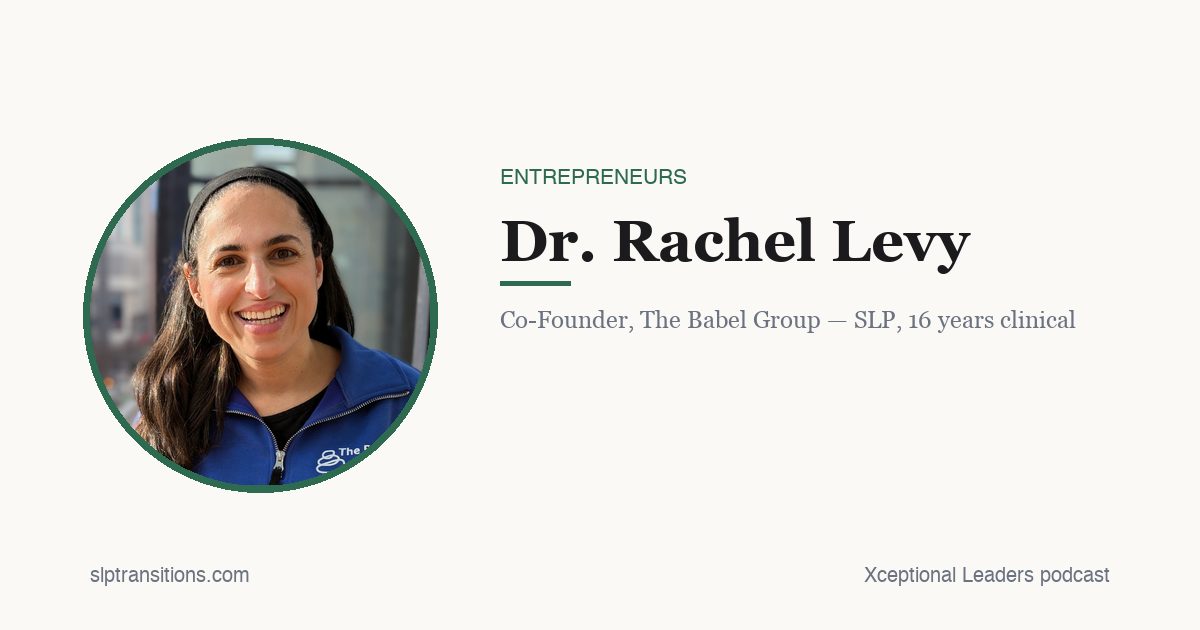
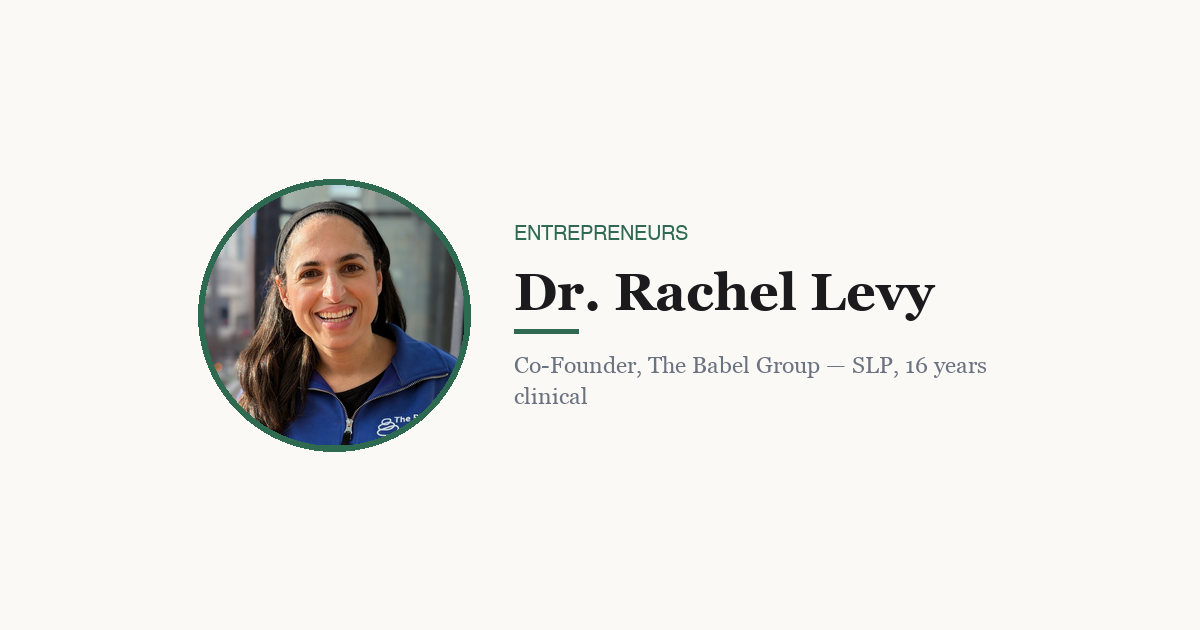
Fix guest header crop clipping, drop baked-in URLs, add 3 more headshots
The single-post hero applies object-fit:cover into a ~1.5:1 box (measured
live: 664x442 from a 1200x630 source) -- crops ~10.6% off each side but no
vertical crop. The original layout anchored the photo near the left edge and
let text run close to the right edge, so both got clipped on the article
page even though the grid/card thumbnail looked fine.

Centered photo+text as one group inside a 66%-width safe zone (with margin
beyond the measured crop) so it survives the theme's crop. Also dropped the
baked-in "slptransitions.com" / "Xceptional Leaders podcast" footer text per
James's note -- it's redundant on a page that's already on that domain.

Added headshots for Maya Chupkov (from her own org's site), Chris Wenger,
and Conner Reinhardt (corrected from "Reinardt" -- his actual surname per
his LinkedIn and the show's own guest page) via the same public guest-page
source as the other 9.

Re-uploaded the 3 live posts' featured images with the fixed layout and
verified in-browser that nothing clips.

diff --git a/scripts/make_guest_header.py b/scripts/make_guest_header.py
@@ -19,12 +19,22 @@ G = "/System/Library/Fonts/Supplemental/Georgia.ttf"
 HELV = "/System/Library/Fonts/Helvetica.ttc"
 HELV_B = "/System/Library/Fonts/Helvetica.ttc"
 
-PHOTO_D = 340
-RING = 7
-PHOTO_CX = 90 + PHOTO_D // 2
-PHOTO_CY = H // 2
+# Kadence crops the single-post hero with object-fit:cover into a ~1.5:1 box
+# (measured live: 664x442 rendered from a 1200x630 source), which keeps full
+# height but crops ~10.6% off each side (visible width ~78.7%). Use a tighter
+# safe zone than that measured value so the crop has margin to spare.
+SAFE_W, SAFE_H = int(W * 0.66), int(H * 0.58)
+SAFE_LEFT = (W - SAFE_W) // 2
+SAFE_TOP = (H - SAFE_H) // 2
 
-TEXT_X = 90 + PHOTO_D + 70  # left edge of the text column
+PHOTO_D = 260
+RING = 6
+GAP = 50
+TEXT_MAX_W = SAFE_W - PHOTO_D - GAP
+
+PHOTO_CX = SAFE_LEFT + PHOTO_D // 2
+PHOTO_CY = H // 2
+TEXT_X = SAFE_LEFT + PHOTO_D + GAP
 
 
 def circular_photo(path, diameter):
@@ -71,45 +81,50 @@ def make_header(photo_path, kicker, name, role, out_path):
         photo, (PHOTO_CX - PHOTO_D // 2, PHOTO_CY - PHOTO_D // 2), photo
     )
 
-    max_w = W - TEXT_X - 80
+    max_w = TEXT_MAX_W
 
-    # kicker
-    kf = ImageFont.truetype(HELV, 21)
+    kf = ImageFont.truetype(HELV, 20)
     kicker_u = kicker.upper()
-    d.text((TEXT_X, PHOTO_CY - 148), kicker_u, font=kf, fill=GREEN)
 
-    # name (auto-fit)
-    for size in range(58, 30, -2):
+    # name (auto-fit, capped at 2 lines)
+    for size in range(52, 28, -2):
         nf = ImageFont.truetype(GB, size)
         name_lines = wrap(d, name, nf, max_w)
         if len(name_lines) <= 2:
             break
-    y = PHOTO_CY - 108
+    name_line_h = int(size * 1.18)
+
+    rf = ImageFont.truetype(G, 23)
+    role_lines = wrap(d, role, rf, max_w)[:2]
+    role_line_h = 31
+
+    # Stack kicker + name + rule + role, then center the whole block on the
+    # photo's vertical center so the group reads as one unit.
+    kicker_h = 26
+    rule_gap = 22
+    block_h = (
+        kicker_h
+        + 12
+        + len(name_lines) * name_line_h
+        + rule_gap
+        + len(role_lines) * role_line_h
+    )
+    y = PHOTO_CY - block_h // 2
+
+    d.text((TEXT_X, y), kicker_u, font=kf, fill=GREEN)
+    y += kicker_h + 12
+
     for ln in name_lines:
         d.text((TEXT_X, y), ln, font=nf, fill=DARK)
-        y += int(size * 1.18)
+        y += name_line_h
 
-    # green rule
     y += 6
-    d.rectangle((TEXT_X, y, TEXT_X + 70, y + 4), fill=GREEN)
-    y += 24
+    d.rectangle((TEXT_X, y, TEXT_X + 64, y + 4), fill=GREEN)
+    y += rule_gap
 
-    # role / description line
-    rf = ImageFont.truetype(G, 24)
-    role_lines = wrap(d, role, rf, max_w)[:3]
     for ln in role_lines:
         d.text((TEXT_X, y), ln, font=rf, fill=MUTED)
-        y += 33
-
-    # footer
-    ff = ImageFont.truetype(HELV, 20)
-    d.text((90, H - 64), "slptransitions.com", font=ff, fill=MUTED)
-    d.text(
-        (W - 90 - d.textlength("Xceptional Leaders podcast", font=ff), H - 64),
-        "Xceptional Leaders podcast",
-        font=ff,
-        fill=MUTED,
-    )
+        y += role_line_h
 
     img.save(out_path, optimize=True)
     print(f"wrote {out_path}")
@@ -150,6 +165,15 @@ if __name__ == "__main__":
         dict(photo="jhillika-kumar.jpeg", kicker="Entrepreneurs",
              name="Jhillika Kumar", role="Co-Founder & CEO, Mentra",
              out="jhillika-kumar-photo.png"),
+        dict(photo="conner-reinhardt.png", kicker="Entrepreneurs",
+             name="Conner Reinhardt", role="Co-Founder & COO, Mentra",
+             out="conner-reinhardt-photo.png"),
+        dict(photo="maya-chupkov.png", kicker="Entrepreneurs",
+             name="Maya Chupkov", role="Founder, Proud Stutter",
+             out="maya-chupkov-photo.png"),
+        dict(photo="chris-wenger.jpg", kicker="Entrepreneurs",
+             name="Chris Wenger", role='SLP, "Speech Dude" — neurodivergent-affirming practice',
+             out="chris-wenger-photo.png"),
     ]
 
     only = sys.argv[1] if len(sys.argv) > 1 else None
